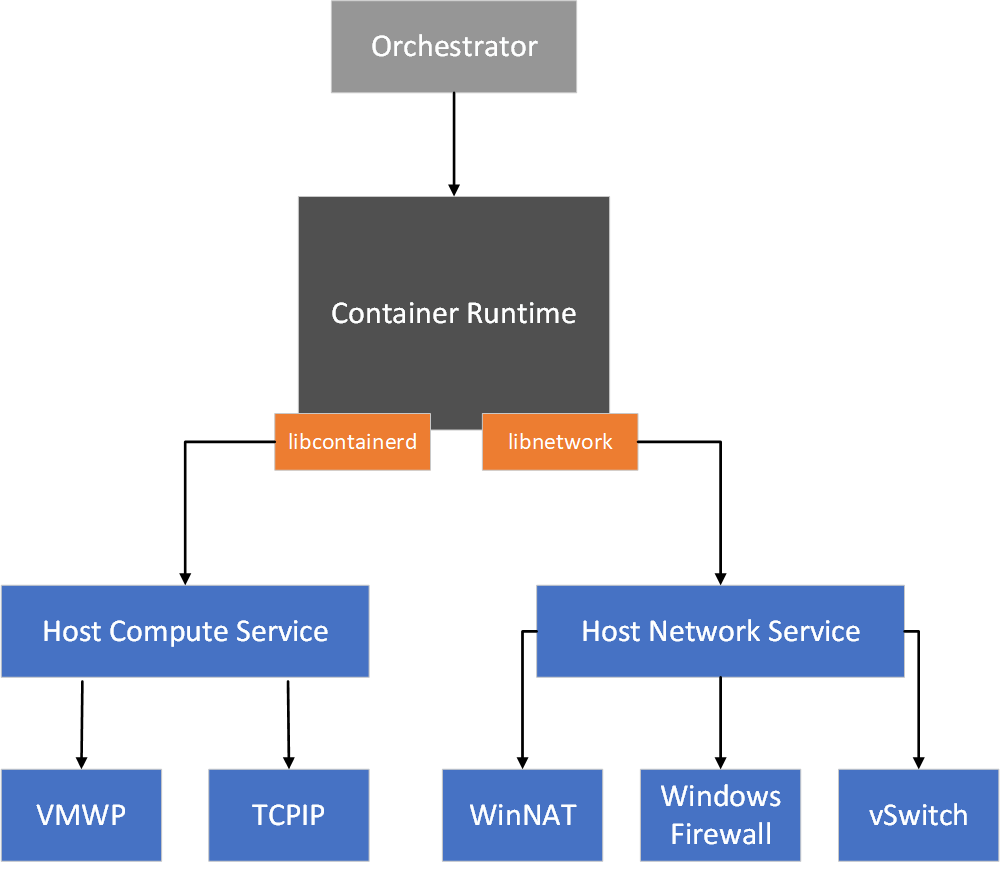
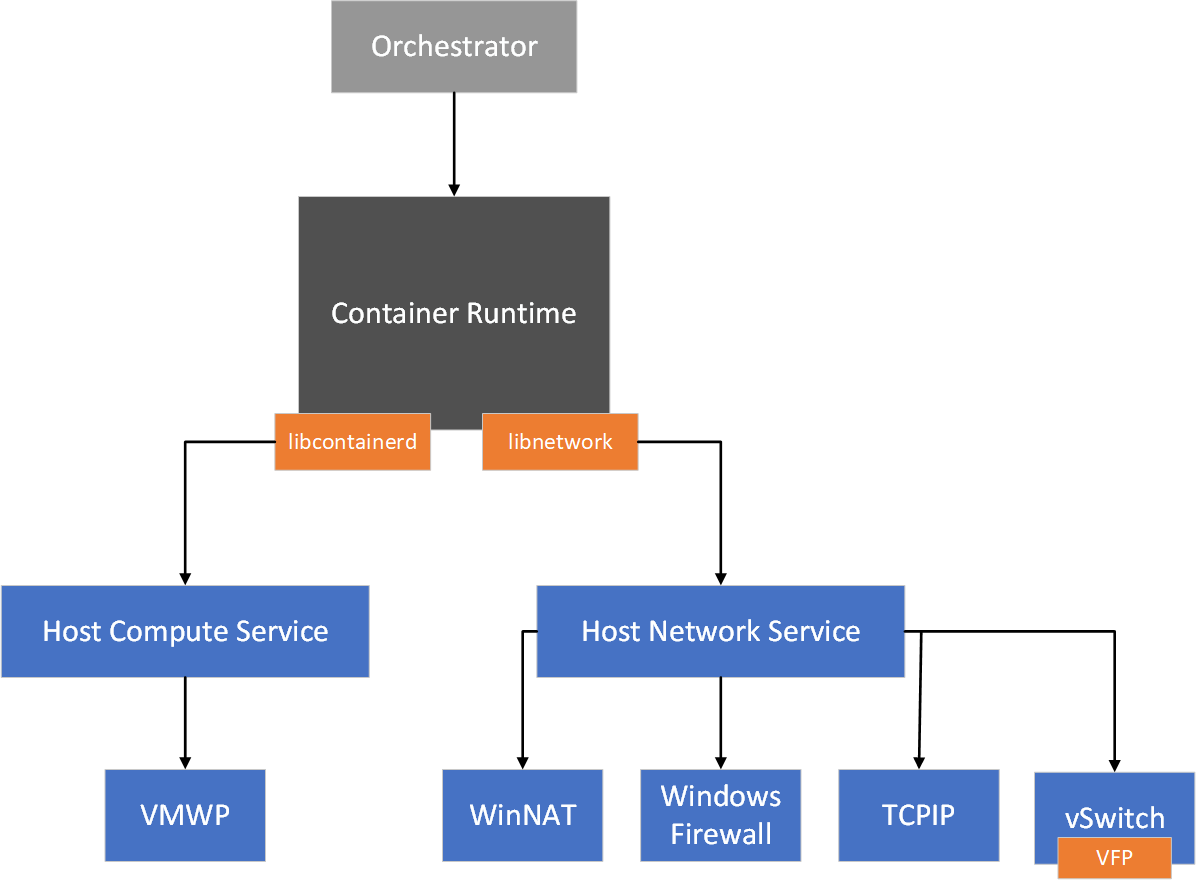
Improved container networking docs

Changed region(s): [[0.0, 0.0, 1.0, 0.9942]]

diff --git a/virtualization/windowscontainers/container-networking/architecture.md b/virtualization/windowscontainers/container-networking/architecture.md
@@ -12,18 +12,11 @@ ms.assetid: 538871ba-d02e-47d3-a3bf-25cda4a40965
 
 
 # Windows Container Networking
-> ***DISCLAIMER: Please reference [Docker Container Networking](https://docs.docker.com/engine/userguide/networking/) for general docker networking commands, options, and syntax.*** With the exception of any cases described below, all Docker networking commands are supported on Windows with the same syntax as on Linux. Please note, however, that the Windows and Linux network stacks are different, and as such you will find that some Linux network commands (e.g. ifconfig) are not supported on Windows.
-> ## Unsupported features and network options 
-> The following networking options are currently **NOT** supported in Windows:
->
-> | Command        | Unsupported Option   |
-> | ---------------|:--------------------:|
-> | ``docker run``|   ``--ip6``, ``--dns-option`` |
-> | ``docker network create``| ``--aux-address``, ``--internal``, ``--ip-range``, ``--ipam-driver``, ``--ipam-opt``, ``--ipv6``, ``--opt encrypted`` |
+> ***DISCLAIMER: Please reference [Docker Container Networking](https://docs.docker.com/engine/userguide/networking/) for general docker networking commands, options, and syntax.*** With the exception of any cases described [below](#unsupported-features-and-network-options), all Docker networking commands are supported on Windows with the same syntax as on Linux. Please note, however, that the Windows and Linux network stacks are different, and as such you will find that some Linux network commands (e.g. ifconfig) are not supported on Windows.
 
 
 ## Basic networking architecture
-This topic provides an overview of how Docker creates and manages networks on Windows. Windows containers function similarly to virtual machines in regards to networking. Each container has a virtual network adapter (vNIC) which is connected to a Hyper-V virtual switch (vSwitch). Windows supports five different networking drivers or modes which can be created through Docker: *nat*, *overlay*, *transparent*, *l2bridge*, and *l2tunnel*. Depending on your physical network infrastructure and single- vs multi-host networking requirements, you should choose the network driver which best suits your needs.
+This topic provides an overview of how Docker creates and manages host networks on Windows. Windows containers function similarly to virtual machines in regards to networking. Each container has a virtual network adapter (vNIC) which is connected to a Hyper-V virtual switch (vSwitch). Windows supports five different networking drivers or modes which can be created through Docker: *nat*, *overlay*, *transparent*, *l2bridge*, and *l2tunnel*. Depending on your physical network infrastructure and single- vs multi-host networking requirements, you should choose the network driver which best suits your needs.
 
 
 ![text](media/windowsnetworkstack-simple.png)
@@ -55,13 +48,24 @@ The Host Networking Service (HNS) and the Host Compute Service (HCS) work togeth
   - HNS creates NAT and IP pools as required
 
 ### Endpoint Creation
-  - HCS creates network compartment per container endpoint
-  - HNS/HCS places v(m)NIC inside network compartment
+  - HNS creates network namespace per container endpoint
+  - HNS/HCS places v(m)NIC inside network namespace
   - HNS creates (vSwitch) ports
   - HNS assigns IP address, DNS information, routes, etc. (subject to networking mode) endpoint
 
 ### Policy Creation
-  - HNS creates WinNAT port forwarding rules / mappings with corresponding Windows Firewall ALLOW rules
+  - Default NAT network: HNS creates WinNAT port forwarding rules / mappings with corresponding Windows Firewall ALLOW rules
+  - All other networks: HNS utilizes the Virtual Filtering Platform (VFP) for policy creation
+    - This includes: load balancing, ACLs, encapsulation, etc.
 
 
 ![text](media/HNS-Management-Stack.png)
+
+
+ ## Unsupported features and network options
+ The following networking options are currently **NOT** supported in Windows:
+
+ | Command        | Unsupported Option   |
+ | ---------------|:--------------------:|
+ | ``docker run``|   ``--ip6``, ``--dns-option`` |
+ | ``docker network create``| ``--aux-address``, ``--internal``, ``--ip-range``, ``--ipam-driver``, ``--ipam-opt``, ``--ipv6``, ``--opt encrypted`` |

diff --git a/virtualization/windowscontainers/container-networking/network-isolation-security.md b/virtualization/windowscontainers/container-networking/network-isolation-security.md
@@ -13,8 +13,8 @@ ms.assetid: 538871ba-d02e-47d3-a3bf-25cda4a40965
 
 # Network Isolation and Security
 
-## Isolation (Namespace) with Network Compartments
-Each container endpoint is placed in its own __network compartment__ which is analogous to a network namespace in Linux. The management host vNIC and host network stack are located in the default network compartment. In order to enforce network isolation between containers on the same host, a network compartment is created for each Windows Server and Hyper-V Container into which the network adapter for the container is installed. Windows Server containers use a Host vNIC to attach to the virtual switch. Hyper-V Containers use a Synthetic VM NIC (not exposed to the Utility VM) to attach to the virtual switch. 
+## Isolation with Network namespaces
+Each container endpoint is placed in its own __network namespace__. The management host vNIC and host network stack are located in the default network namespace. In order to enforce network isolation between containers on the same host, a network namespace is created for each Windows Server and Hyper-V Container into which the network adapter for the container is installed. Windows Server containers use a Host vNIC to attach to the virtual switch. Hyper-V Containers use a Synthetic VM NIC (not exposed to the Utility VM) to attach to the virtual switch.
 
 
 ![text](media/network-compartment-visual.png)
@@ -24,26 +24,47 @@ Each container endpoint is placed in its own __network compartment__ which is an
 Get-NetCompartment
 ```
 
-## Windows Firewall Security
-
-The Windows Firewall is used to enforce network security through port ACLs.
+## Network Security
+Depending on which container and network driver is used, Windows Firewall or VFP is used to enforce network security through port ACLs.
 
 > NOTE: Make sure your environment satisfies these *required* [prerequisites](https://docs.docker.com/network/overlay/#operations-for-all-overlay-networks) for creating overlay networks.
 
 
 ### Windows Server containers
-These use the Windows hosts' firewall (enlightened with network compartments.) 
+These use the Windows hosts' firewall (enlightened with network namespaces)
   * Default Outbound: ALLOW ALL
-  * Default Inbound: DENY ALL unsolicited
-    * Except "common" (e.g. DHCP, DNS, ICMP, etc.) network traffic
+  * Default Inbound: ALLOW ALL "common" (e.g. TCP,DHCP, DNS, ICMP, etc.) unsolicited network traffic
+    * DENY ALL "uncommon" network traffic
     * Create inbound ALLOW rule in response to ``docker run -p`` (port forwarding)
+
 
 ### Hyper-V containers
 Hyper-V containers have their own isolated kernel and hence run their own instance of Windows Firewall with the following configuration:
   * Default ALLOW ALL in Windows Firewall
 
 Note that in general, all container endpoints attached to an overlay network have an:
-  *  ALLOW ALL rule created.  
+  *  ALLOW ALL rule created.
 
 
 ![text](media/windows-firewall-containers.png)
+
+
+### Kubernetes Pods
+In [Kubernetes pods](https://kubernetes.io/docs/concepts/workloads/pods/pod/), an infrastructure container is first created to which an endpoint is attached. Containers (including infrastructure and worker containers) belonging to the same pod share a common network namespace (same IP and port space).
+
+
+![text](media/pod-network-compartment.png)
+
+
+### Customizing default port ACLs
+If you wish to modify the default port ACLs, please reference our HNS documentation (link to be added very soon). You will need to update policies inside the following components:
+
+> NOTE: For Hyper-V Containers in Transparent and NAT mode, you cannot reprogram the default port ACLs currently. This is reflected by an "X" in the table.
+
+| Network Driver | Windows Server Containers | Hyper-V Containers  |
+| -------------- |-------------------------- | ------------------- |
+| Transparent | Windows Firewall | X |
+| NAT | Windows Firewall | X |
+| L2Bridge | Both | VFP |
+| L2Tunnel | Both | VFP |
+| Overlay  | Both | VFP |

diff --git a/virtualization/windowscontainers/container-networking/advanced.md b/virtualization/windowscontainers/container-networking/advanced.md
@@ -58,9 +58,10 @@ C:\> docker network create -d transparent -o com.docker.network.windowsshim.inte
 
 > Note: The value for *com.docker.network.windowsshim.interface* is the network adapter's *Name*, which can be found with:
 
->```
+```
 PS C:\> Get-NetAdapter
 ```
+
 ## Specify the DNS Suffix and/or the DNS Servers of a Network
 
 > Applies to all network drivers 
@@ -73,14 +74,7 @@ C:\> docker network create -d transparent -o com.docker.network.windowsshim.dnss
 
 ## VFP
 
-The Virtual Filtering Platform (VFP) extension is a Hyper-V virtual switch, forwarding extension used to enforce network policy and manipulate packets. For instance, VFP is used by the 'overlay' network driver to perform VXLAN encapsulation and by the 'l2bridge' driver to perform MAC re-write on ingresss and egress. The VFP extension is only present on Windows Server 2016 and Windows 10 Creators Update. To check and see if this is running correctly a user can run two commands:
-
-```powershell
-Get-Service vfpext
-
-# This should indicate the extension is Running: True 
-Get-VMSwitchExtension  -VMSwitchName <vSwitch Name> -Name "Microsoft Azure VFP Switch Extension"
-```
+See [this article](https://www.microsoft.com/en-us/research/project/azure-virtual-filtering-platform/) for more information.
 
 ## Tips & Insights
 Here's a list of handy tips and insights, inspired by common questions on Windows container networking that we hear from the community...
@@ -96,15 +90,26 @@ We're working on platform changes to automatically detect/prevent this issue. Cu
 C:\> reg delete HKEY_LOCAL_MACHINE\SYSTEM\CurrentControlSet\Services\Tcpip6\Parameters  /v DisabledComponents  /f
 ```
 
+
+#### Linux Containers on Windows
+
+**NEW:** We are working to make it possible to run Linux and Windows containers side-by-side _without the Moby Linux VM_. See this [blog post about Linux Containers on Windows (LCOW)](https://blog.docker.com/2017/11/docker-for-windows-17-11/) for details.
+
 #### Moby Linux VMs use DockerNAT switch with Docker for Windows (a product of [Docker CE](https://www.docker.com/community-edition)) instead of HNS internal vSwitch 
+
 Docker for Windows (the Windows driver for the Docker CE engine) on Windows 10 will use an Internal vSwitch named 'DockerNAT' to connect Moby Linux VMs to the container host. Developers using Moby Linux VMs on Windows should be aware that their hosts are using the DockerNAT vSwitch rather than the vSwitch that is created by the HNS service (which is the default switch used for Windows containers).
 
-#### To use DHCP for IP assignment on a virtual container host enable MACAddressSpoofing 
+
+#### To use DHCP for IP assignment on a virtual container host enable MACAddressSpoofing
+>  _MAC address spoofing is required for l2bridge and transparent network drivers **as well as Kubernetes**_
+
 If the container host is virtualized, and you wish to use DHCP for IP assignment, you must enable MACAddressSpoofing on the virtual machine's network adapter. Otherwise, the Hyper-V host will block network traffic from the containers in the VM with multiple MAC addresses. You can enable MACAddressSpoofing with this PowerShell command:
 ```
 PS C:\> Get-VMNetworkAdapter -VMName ContainerHostVM | Set-VMNetworkAdapter -MacAddressSpoofing On
 ```
 If you are running VMware as your hypervisor, you will need to enable promiscuous mode for this to work. Details can be found [here](https://kb.vmware.com/s/article/1004099)
+
+
 #### Creating multiple transparent networks on a single container host
 If you wish to create more than one transparent network you must specify to which (virtual) network adapter the external Hyper-V Virtual Switch should bind. To specify the interface for a network, use the following syntax:
 ```

diff --git a/virtualization/windowscontainers/container-networking/network-drivers-topologies.md b/virtualization/windowscontainers/container-networking/network-drivers-topologies.md
@@ -13,14 +13,14 @@ ms.assetid: 538871ba-d02e-47d3-a3bf-25cda4a40965
 
 # Windows Container Network Drivers  
 
-In addition to leveraging the default 'nat' network created by Docker on Windows, users can define custom container networks. User-defined networks can be created using using the Docker CLI, [`docker network create -d <NETWORK DRIVER TYPE> <NAME>`](https://docs.docker.com/engine/reference/commandline/network_create/), command. On Windows, the following network driver types are available:
+In addition to leveraging the default 'nat' network created by Docker on Windows, users can define custom container networks. User-defined networks can be created using using the Docker CLI [`docker network create -d <NETWORK DRIVER TYPE> <NAME>`](https://docs.docker.com/engine/reference/commandline/network_create/) command. On Windows, the following network driver types are available:
 
 - **nat** – containers attached to a network created with the 'nat' driver will receive an IP address from the user-specified (``--subnet``) IP prefix. Port forwarding / mapping from the container host to container endpoints is supported.
 > Note: Multiple NAT networks are supported if you have the Windows 10 Creators Update installed!
 
 - **transparent** – containers attached to a network created with the 'transparent' driver will be directly connected to the physical network. IPs from the physical network can be assigned statically (requires user-specified ``--subnet`` option) or dynamically using an external DHCP server. 
 
-- **overlay** - when the docker engine is running in [swarm mode](./swarm-mode.md), containers attached to an overlay network can communicate with other containers attached to the same network across multiple container hosts. Each overlay network that is created on a Swarm cluster is created with its own IP subnet, defined by a private IP prefix. The overlay network driver uses VXLAN encapsulation.
+- **overlay** - when the docker engine is running in [swarm mode](../manage-containers/swarm-mode.md), containers attached to an overlay network can communicate with other containers attached to the same network across multiple container hosts. Each overlay network that is created on a Swarm cluster is created with its own IP subnet, defined by a private IP prefix. The overlay network driver uses VXLAN encapsulation.
 > Requires Windows Server 2016 with [KB4015217](https://support.microsoft.com/en-us/help/4015217/windows-10-update-kb4015217) or Windows 10 Creators Update 
 
 - **l2bridge** - containers attached to a network created with the 'l2bridge' driver will be in the same IP subnet as the container host. The IP addresses must be assigned statically from the same prefix as the container host. All container endpoints on the host will have the same MAC address as the host due to Layer-2 address translation (MAC re-write) operation on ingress and egress.
@@ -65,4 +65,4 @@ Service Discovery is only supported for certain Windows network drivers.
 | nat | YES | NA |  
 | overlay | YES | YES |
 | transparent | NO | NO |
-| l2bridge | NO | NO |
+| l2bridge | NO | uses kube-DNS |

diff --git a/virtualization/windowscontainers/TOC.md b/virtualization/windowscontainers/TOC.md
@@ -37,7 +37,6 @@
 ## [Network Topologies and Drivers](container-networking/network-drivers-topologies.md)
 ## [Network Isolation and Security](container-networking/network-isolation-security.md)
 ## [Advanced Networking Options](container-networking/advanced.md)
-## [Troubleshooting](container-networking/troubleshooting.md)
 
 # Kubernetes on Windows 
 ## [Getting Started](kubernetes/getting-started-kubernetes-windows.md)
